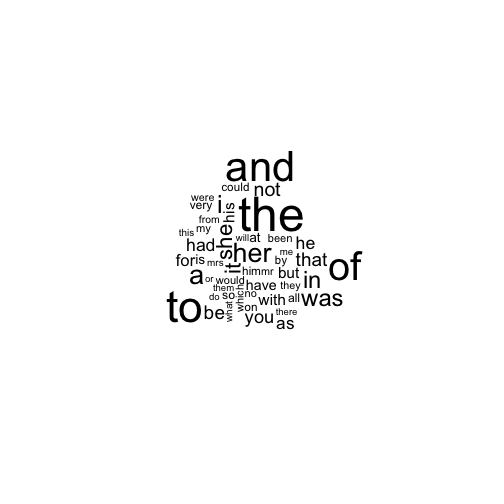
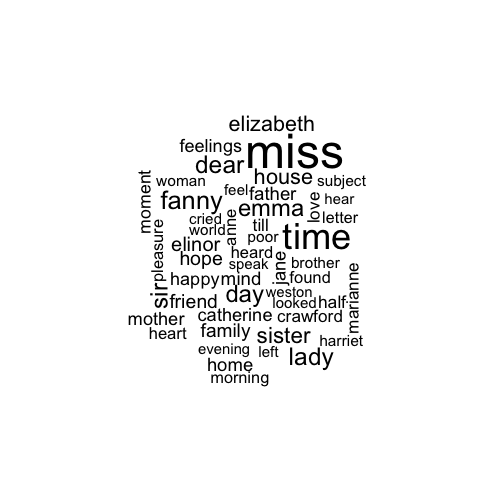
Added AssociatedPress analysis to README

Changed region(s): [[0.2381, 0.2083, 0.7143, 0.7738]]

diff --git a/README.md b/README.md
@@ -68,42 +68,49 @@ We can remove stop words kept in a tidy data set in the `tidytext` package.
 
 
 ```r
+data("stopwords")
+
 books <- books %>%
-  filter(!(word %in% stopwords$word))
-#> Error in eval(expr, envir, enclos): object of type 'closure' is not subsettable
+  anti_join(stopwords)
+#> Joining by: "word"
 ```
 
 Now, let's see what are the most common words in all the books as a whole.
 
 
 ```r
-books %>% count(word, sort = TRUE) 
-#> Source: local data frame [14,233 x 2]
+books %>%
+  count(word, sort = TRUE) 
+#> Source: local data frame [13,625 x 2]
 #> 
-#>     word     n
-#>    (chr) (int)
-#> 1    the 26344
-#> 2     to 24041
-#> 3    and 22512
-#> 4     of 21181
-#> 5      a 13404
-#> 6    her 13144
-#> 7      i 12016
-#> 8     in 11216
-#> 9    was 11214
-#> 10    it 10227
-#> ..   ...   ...
+#>      word     n
+#>     (chr) (int)
+#> 1    miss  1856
+#> 2    time  1339
+#> 3   fanny   859
+#> 4    dear   820
+#> 5    lady   817
+#> 6     sir   805
+#> 7     day   797
+#> 8    emma   786
+#> 9  sister   727
+#> 10  house   699
+#> ..    ...   ...
 ```
 
 Sentiment analysis can be done as an inner join. Three sentiment lexicons are in the `tidytext` package in the `sentiment` dataset. Let's look at the words with a sadness score from the NRC lexicon. What are the most common sadness words in *Mansfield Park*?
 
 
 ```r
-nrcsadness <- filter(sentiments, lexicon == "nrc" & sentiment == "sadness")
-books %>% filter(book == "Mansfield Park") %>% 
-  inner_join(nrcsadness) %>% count(word, sort = TRUE)
+nrcsadness <- sentiments %>%
+  filter(lexicon == "nrc", sentiment == "sadness")
+
+books %>%
+  filter(book == "Mansfield Park") %>% 
+  semi_join(nrcsadness) %>%
+  count(word, sort = TRUE)
 #> Joining by: "word"
-#> Source: local data frame [392 x 2]
+#> Source: local data frame [387 x 2]
 #> 
 #>          word     n
 #>         (chr) (int)
@@ -125,8 +132,12 @@ Or instead we could examine how sentiment changes changes during each novel. Let
 
 ```r
 library(tidyr)
-bing <- filter(sentiments, lexicon == "bing")
-janeaustensentiment <- books %>% inner_join(bing) %>% 
+bing <- sentiments %>%
+  filter(lexicon == "bing") %>%
+  select(-score)
+
+janeaustensentiment <- books %>%
+  inner_join(bing) %>% 
   count(book, index = linenumber %/% 80, sentiment) %>% 
   spread(sentiment, n, fill = 0) %>% 
   mutate(sentiment = positive - negative)
@@ -148,15 +159,17 @@ ggplot(janeaustensentiment, aes(index, sentiment, fill = book)) +
 
 ### Most common positive and negative words
 
-One advantage of having 
+One advantage of having the table with both sentiment and word is that you can analyze word counts that contribute to each sentiment:
 
 
 ```r
 bing_word_counts <- books %>%
   inner_join(bing) %>%
   count(word, sentiment, sort = TRUE) %>%
-  ungroup()
+  ungroup() %>%
+  select(-score)
 #> Joining by: "word"
+#> Error in eval(expr, envir, enclos): object 'score' not found
 
 bing_word_counts
 #> Source: local data frame [2,586 x 3]
@@ -175,6 +188,8 @@ bing_word_counts
 #> 10  abundance  positive    14
 #> ..        ...       ...   ...
 ```
+
+This can be shown in a graph:
 
 
 ```r
@@ -227,77 +242,110 @@ books %>%
 
 ![plot of chunk wordcloud](README-wordcloud-1.png) 
 
-### Combining With a Dictionary
+### Tidying document term matrices
 
-Download a psych dictionary:
+Many existing text mining datasets are in the form of a DocumentTermMatrix class (from the tm package). For example, consider the corpus of 2246 Associated Press articles from the topicmodels dataset:
 
 
 ```r
-RIDzipfile <- download.file("http://provalisresearch.com/Download/RID.ZIP", "RID.zip")
-unzip("RID.zip")
-RIDdict <- quanteda::dictionary(file = "RID.CAT", format = "wordstat")
-file.remove("RID.zip", "RID.CAT", "RID.exc")
-#> [1] TRUE TRUE TRUE
+data("AssociatedPress", package = "topicmodels")
+AssociatedPress
+#> <<DocumentTermMatrix (documents: 2246, terms: 10473)>>
+#> Non-/sparse entries: 302031/23220327
+#> Sparsity           : 99%
+#> Maximal term length: 18
+#> Weighting          : term frequency (tf)
 ```
 
-And tidy it:
+If we want to analyze this with tidy tools, we'd have to turn it into a one-row-per-term data frame first. topicmodels provides a `tidy` function to do this:
 
 
 ```r
-rid <- tidy(RIDdict, regex = TRUE) %>%
-  rename(regex = word) %>%
-  tbl_df()
-
-rid
-#> Source: local data frame [3,151 x 2]
+tidy(AssociatedPress)
+#> Source: local data frame [302,031 x 3]
 #> 
-#>                category        regex
-#>                   (chr)        (chr)
-#> 1  PRIMARY.NEED.ORALITY     ^absinth
-#> 2  PRIMARY.NEED.ORALITY        ^ale$
-#> 3  PRIMARY.NEED.ORALITY       ^ales$
-#> 4  PRIMARY.NEED.ORALITY ^alimentary$
-#> 5  PRIMARY.NEED.ORALITY    ^ambrosia
-#> 6  PRIMARY.NEED.ORALITY   ^ambrosial
-#> 7  PRIMARY.NEED.ORALITY     ^appetit
-#> 8  PRIMARY.NEED.ORALITY       ^apple
-#> 9  PRIMARY.NEED.ORALITY    ^artichok
-#> 10 PRIMARY.NEED.ORALITY    ^asparagu
-#> ..                  ...          ...
+#>    document       term count
+#>       (int)      (chr) (dbl)
+#> 1         1     adding     1
+#> 2         1      adult     2
+#> 3         1        ago     1
+#> 4         1    alcohol     1
+#> 5         1  allegedly     1
+#> 6         1      allen     1
+#> 7         1 apparently     2
+#> 8         1   appeared     1
+#> 9         1   arrested     1
+#> 10        1    assault     1
+#> ..      ...        ...   ...
 ```
 
-For now let's focus on the "secondary needs" type:
+(For more on the tidy verb, [see the broom package](https://github.com/dgrtwo/broom)). You can then perform sentiment analysis on these newspaper articles:
 
 
 ```r
-secondary <- rid %>%
-  filter(str_detect(category, "SECONDARY"))
+ap_sentiments <- tidy(AssociatedPress) %>%
+  inner_join(bing, by = c(term = "word"))
 
-secondary
-#> Source: local data frame [714 x 2]
+ap_sentiments
+#> Source: local data frame [30,094 x 5]
 #> 
-#>                       category             regex
-#>                          (chr)             (chr)
-#> 1  SECONDARY.ABSTRACT_TOUGHT._         ^diverse$
-#> 2  SECONDARY.ABSTRACT_TOUGHT._ ^diversification$
-#> 3  SECONDARY.ABSTRACT_TOUGHT._     ^diversified$
-#> 4  SECONDARY.ABSTRACT_TOUGHT._       ^diversity$
-#> 5  SECONDARY.ABSTRACT_TOUGHT._         ^evident$
-#> 6  SECONDARY.ABSTRACT_TOUGHT._      ^evidential$
-#> 7  SECONDARY.ABSTRACT_TOUGHT._            ^guess
-#> 8  SECONDARY.ABSTRACT_TOUGHT._        ^logistic$
-#> 9  SECONDARY.ABSTRACT_TOUGHT._         ^abstract
-#> 10 SECONDARY.ABSTRACT_TOUGHT._           ^almost
-#> ..                         ...               ...
+#>    document    term count sentiment lexicon
+#>       (int)   (chr) (dbl)     (chr)   (chr)
+#> 1         1 assault     1  negative    bing
+#> 2         1 complex     1  negative    bing
+#> 3         1   death     1  negative    bing
+#> 4         1    died     1  negative    bing
+#> 5         1    good     2  positive    bing
+#> 6         1 illness     1  negative    bing
+#> 7         1  killed     2  negative    bing
+#> 8         1    like     2  positive    bing
+#> 9         1   liked     1  positive    bing
+#> 10        1 miracle     1  positive    bing
+#> ..      ...     ...   ...       ...     ...
 ```
 
-Now we can use the [fuzzyjoin](http://github.com/dgrtwo/fuzzyjoin) package to join these with the Emma:
+We could find the most negative documents:
 
 
 ```r
-library(fuzzyjoin)
-
-secondary_emma <- emma_words %>%
-  regex_inner_join(secondary, by = c(word = "regex"))
-#> Error in eval(expr, envir, enclos): object 'emma_words' not found
+ap_sentiments %>%
+  count(document, sentiment) %>%
+  ungroup() %>%
+  spread(sentiment, n, fill = 0) %>%
+  mutate(sentiment = positive - negative) %>%
+  arrange(sentiment)
+#> Source: local data frame [2,190 x 4]
+#> 
+#>    document negative positive sentiment
+#>       (int)    (dbl)    (dbl)     (dbl)
+#> 1        43       35       10       -25
+#> 2      2241       28        5       -23
+#> 3       531       31        9       -22
+#> 4      1263       29        7       -22
+#> 5        96       29        8       -21
+#> 6      1664       26        5       -21
+#> 7       234       28        8       -20
+#> 8       560       28        8       -20
+#> 9       102       24        5       -19
+#> 10      438       27        8       -19
+#> ..      ...      ...      ...       ...
 ```
+
+Or see which words contributed to positivity/negativity:
+
+
+```r
+ap_sentiments %>%
+  count(sentiment, term) %>%
+  ungroup() %>%
+  filter(n >= 100) %>%
+  mutate(n = ifelse(sentiment == "negative", -n, n)) %>%
+  mutate(term = reorder(term, n)) %>%
+  ggplot(aes(term, n, fill = sentiment)) +
+  geom_bar(stat = "identity") +
+  theme(axis.text.x = element_text(angle = 90, hjust = 1)) +
+  ylab("Contribution to positivity/negativity")
+#> Warning: Stacking not well defined when ymin != 0
+```
+
+![plot of chunk unnamed-chunk-17](README-unnamed-chunk-17-1.png) 
